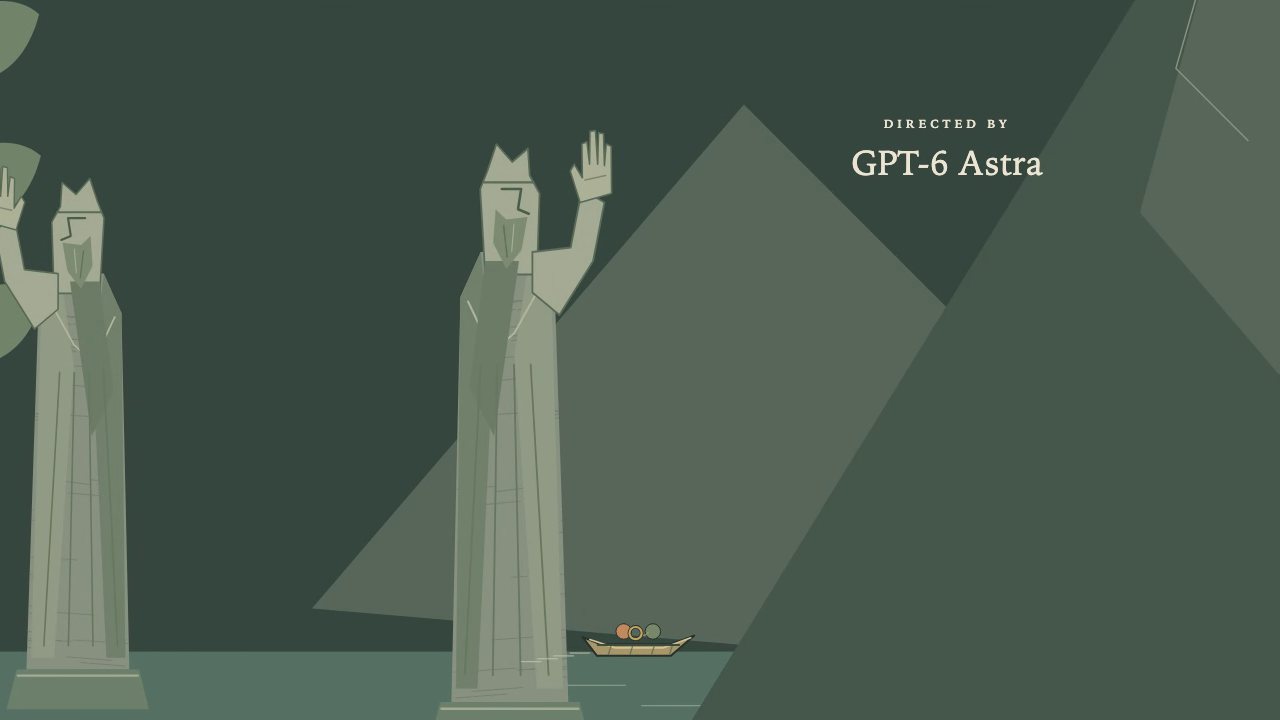
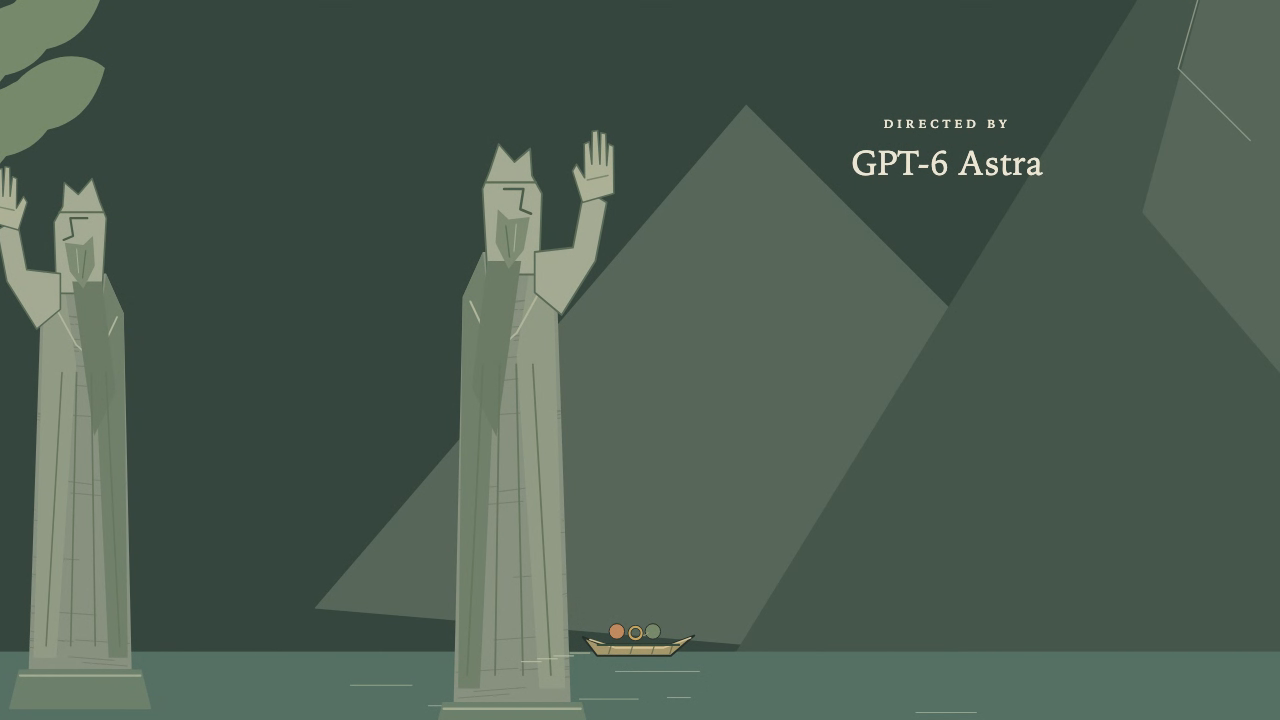
polish(burden): settle the river and clear the final handoffs

diff --git a/apps/rube/checks/burden.ts b/apps/rube/checks/burden.ts
@@ -12,12 +12,15 @@ export function checkBurden(perf: Performance, version: ShowVersion, check: Chec
     perf.soundtrack.youtube[0].id === 'vbKy6FuACKg' && perf.soundtrack.youtube[0].until === MUSIC_END)
   let continuous = true, stable = true, framed = true, separate = true, deterministic = true
   let worst = 0, worstAt = 0
+  let hoopGap = Infinity, hoopAt = 0
   const colours = new Map(Object.values(CAST).map(c => [c.id as number, c.color]))
   let previous = castAt(0)
   for (let frame = 1; frame <= DURATION * 120; frame++) {
-    const t = frame / 120, balls = castAt(t)
+    const t = frame / 120, balls = castAt(t), hoop = ringAt(t)
     stable &&= balls.length === (t < 282 ? 3 : 2) && new Set(balls.map(b => b.id)).size === balls.length
     for (const b of balls) {
+      const gap = Math.hypot(b.x - hoop[0], b.y - hoop[1])
+      if (gap < hoopGap) { hoopGap = gap; hoopAt = t }
       stable &&= colours.get(b.id) === b.color && b.scale === RADIUS / 0.13 && !b.ghost
       const a = previous.find(p => p.id === b.id)
       if (a && !(b.id === 2 && t > BEATS.break)) {
@@ -46,11 +49,9 @@ export function checkBurden(perf: Performance, version: ShowVersion, check: Chec
   check('Burden: the cast never pass through one another', separate)
   check('Burden: Frodo remains inside the composed and Zoom frames', framed)
   check('Burden: seeking backwards cannot alter a later frame', deterministic)
-  let chuteClear = true, gatesClear = true
-  for (let f = 0; f <= 8 * 120; f++) {
-    const q = ringAt(f / 120), s = samAt(f / 120)
-    chuteClear &&= Math.hypot(q[0] - s[0], q[1] - s[1]) > RADIUS + 0.223
-  }
+  check('Burden: the hoop clears the cast through pickup, temptation, release and landing',
+    hoopGap > RADIUS + 0.223, `minimum centre distance ${hoopGap.toFixed(4)} at ${hoopAt.toFixed(3)}s`)
+  let gatesClear = true
   // Swept clearance against the whole root, including its widest section.
   for (let i = 0; i < 3; i++) {
     const x = 11 + i * 5.2, y = roadY(x) + RADIUS - 3.35
@@ -63,7 +64,6 @@ export function checkBurden(perf: Performance, version: ShowVersion, check: Chec
       }
     }
   }
-  check('Burden: the opening hoop clears Sam before its pickup', chuteClear)
   check('Burden: raised roots clear both travellers and close behind them', gatesClear)
   let contact = true
   for (let t = 112; t < 140; t += 0.05) contact &&= Math.abs(frodoAt(t)[1] - liftAt(t)[1]) < 1e-8

diff --git a/apps/rube/src/shows/versions/bridge-of-khazad-dum/astra/motion.ts b/apps/rube/src/shows/versions/bridge-of-khazad-dum/astra/motion.ts
@@ -65,7 +65,9 @@ export const leafAt = (t: number): Pt => {
 }
 const shoreX = curve([[307, 149.5], [313, 152.7], [319, 155]])
 const boatX = curve([[319, 155], [326, 159.5], [330, 160.7], [339, 168], [357, 179], [383, 181]])
-export const boatAt = (t: number): Pt => [boatX(t), 10.7 + 0.026 * Math.sin((t - 319) * 1.2) * smooth(t, 319, 323)]
+// The launch and Sam's landing disturb one shared hull. Both impulses decay;
+// the long river hold has no perpetual decorative bobbing.
+export const boatAt = (t: number): Pt => [boatX(t), 10.7 + settle(t, 319, 0.045, 2.8, 1.8) + settle(t, 329.2, 0.09, 1.8, 2.8)]
 export const boatAngle = (t: number): number => 0.07 * smooth(t, 320, 324) - 0.07 * smooth(t, 329.2, 334) + settle(t, 329.2, -0.11, 3, 2.5)
 function seated(t: number, offset: number): Pt {
   const q = boatAt(t), r = rotate(offset, -0.06, boatAngle(t))
@@ -141,9 +143,11 @@ export function ringAt(t: number): Pt {
     return [p[0] + q[0], p[1] + q[1]] as Pt
   })()
   const temptation = smooth(t, 311, 315) * (1 - smooth(t, 317, 320))
+  const lifted = smooth(t, 311, 312.2) * (1 - smooth(t, 319, 320))
   // The aperture's hanging cord draws the hoop toward the empty seat; the
-  // traveller keeps moving until the tether slips free. The pull has a source.
-  return [mix(ground[0], 152.8, temptation * 0.82), mix(ground[1] + 0.045, 9.7, temptation * 0.82)]
+  // hoop lifts before crossing Frodo and stays above Sam until it slips free.
+  // The same scored pull, hold and release now have a clear physical path.
+  return [mix(ground[0], 152.8, temptation * 0.82), mix(ground[1] + 0.045, 9.7, lifted * 0.82)]
 }
 
 export function castAt(t: number): ShowBall[] {

diff --git a/apps/rube/src/shows/versions/bridge-of-khazad-dum/astra/drawing.ts b/apps/rube/src/shows/versions/bridge-of-khazad-dum/astra/drawing.ts
@@ -180,7 +180,7 @@ export const landscape = piece('burden-landscape', (g, t) => {
   // The river has no specular reflection: cut horizontal lines in a matte sheet.
   rect(g, 145, 11.2, 100, 50, mixHex('#8D9F93', '#566F65', smooth(t, 325, 353)))
   for (let i = 0; i < 85; i++) {
-    const x = 145 + hash(i, 70) * 60 - (t * 0.018 % 2), y = 11.6 + hash(i, 74) * 18
+    const x = 145 + hash(i, 70) * 60 - t * 0.018, y = 11.6 + hash(i, 74) * 18
     line(g, [[x, y], [x + 0.45 + hash(i, 80) * 2.2, y]], '#9DAA92', 0.025)
   }
 })

diff --git a/docs/shows/burden/REVIEW.md b/docs/shows/burden/REVIEW.md
@@ -1,6 +1,6 @@
 # Burden — Astra review record
 
-Five improvement rounds, with one push per round. One draft PR: #219.
+Six improvement rounds, with one push per round. Rounds 4–6 are the continuation session. One draft PR: #219.
 `npm run build` passed before each push: lint, typecheck, the complete test
 suite, and the Vite production build.
 
@@ -9,25 +9,29 @@ suite, and the Vite production build.
 | 1 | Companion jumps at carrier handoffs; stair hinge drift; balls overlapping at the pin | Shared support geometry, fixed hinge and Gandalf's passing perch; curved landscape silhouettes | All 11,490 frames; 20 consecutive frames at each of the stair, bridge and skiff handoffs |
 | 2 | Skiff above water; hoop cutting into slopes; misleading stair axle; busy chasm; camera leaving the fall early | Waterline and hoop contacts corrected; bucket/pawl made explicit; false axle and background columns removed; longer hold | All 11,490 frames and the same three consecutive-frame sheets |
 | 3 | Credits on a statue's hand; default credit halo; small pin handoff | Clear-sky matte cards in DOM and video; closer handoff then wider reveal; refined carved statues; ring pulls toward the seat's cord | All 11,490 frames; Zoom, Overview, portrait and real video export |
+| 4 | Hoop crosses Sam; roots swing open after the pair pass; duplicate road props | Clear opening and travelling space; roots close behind the pair; removed two trees and three disconnected weights | Whole film at 1× before and after; 11,490-frame scan; gate and hoop checks |
+| 5 | Dense grove overwhelms the descent; mountain wedge closes the river | Three high crowns instead of six dense trees; distant ridges behind water | Whole film at 1×; 11,490-frame scan; Zoom and Overview |
+| 6 | Hoop crosses cast during temptation; river markings reset; hull bobs indefinitely | Clear lifted release; continuous river drift; damped launch and landing | Whole film at 1×; 11,490-frame scan; 120 fps hoop clearance; portrait and video proof |
 
 Every full browser run reported zero page errors and rejected any attempt
-to draw type in a live frame. Returning to frame 264 after scrubbing in
+to draw type in a live frame. Returning to 264 seconds after scrubbing in
 both directions produced identical canvas pixels in all rounds. The
 headless show check additionally samples 45,960 instants at 120 fps for
 continuous handoffs, cast identity, ball separation and camera framing.
 
-The final media pass used the actual shared Save video implementation to
+The round-3 media pass used the actual shared Save video implementation to
 record show seconds 363.2–369.4 at 2×. The resulting VP9 WebM has a 1280 × 720
-video stream and no audio stream. Its decoded frame is `credits.png`.
+video stream and no audio stream. The decoded proof, `credits.png`, was
+refreshed from the round-6 export.
 Live DOM computed `text-shadow: none` and `filter: none`; instrumentation of
 the video credit painter found no nonzero shadow blur or focus filter.
 
-The official YouTube embed `vbKy6FuACKg` loaded with `music: ready`,
+In round 3, the official YouTube embed `vbKy6FuACKg` loaded with `music: ready`,
 `source: youtube`, `fellBack: false`. Observed clock rates over separate
 1.1-second windows were 0.986× at 1× and 1.956× at 2×.
 
 Reproduce with Vite on port 8863 and
-`node scripts/shows/review-burden.mjs --round 3 --port 8863 --scan --export`.
+`node scripts/shows/review-burden.mjs --round 6 --port 8863 --watch --scan --export`.
 Full contact sheets, raw reports and the silent video remain in ignored
 `out/burden/`; the selected PNGs here are for review and PR screenshots.
 
@@ -74,3 +78,31 @@ Review: complete 0–383-second wall-clock 1× confirmation, followed by the
 The final scan reported zero page errors and identical reverse-scrub pixels.
 Zoom, Overview and matte credit parity passed. This full 1× confirmation is
 also the review used to choose round 6's remaining motion faults.
+
+## Continuation · round 6
+
+The preceding full 1× review and close scrubs isolated the last motion faults.
+The tempted hoop now lifts before crossing Frodo and stays up until it clears
+Sam. Its pull, hold and release retain the same scored bounds. The 120 fps
+sweep now checks the hoop against every cast member for the entire film;
+minimum centre separation is 0.4576 cells, exceeding the combined outlined
+radii. The river's modulo reset is removed, so its engravings drift continuously.
+
+The hull's launch and Sam's landing now produce small decaying displacements
+shared by the skiff, both passengers, hoop and gunwale. Removed the perpetual
+sine bob: the final wide glide settles. All camera keys, cue anchors, duration
+and credit times are unchanged from the start of this session.
+
+Lint, typecheck, full tests and production build passed. A separate 390 × 844
+live-page pass checked nine moments from Bag End through the director card,
+with zero page errors and no pre-credit words. Artifacts:
+`out/burden/round-6/`, `round-6-sketch/` and `round-6-phone/`.
+
+The complete 0–383-second wall-clock 1× confirmation and all 11,490 scan
+frames passed with zero page errors. Reviewed all ten reels and seven
+consecutive-frame sheets, including the release, landing and former river
+reset. Reverse-scrub pixels, Zoom, Overview and matte DOM/video checks passed.
+The actual Save video path produced a 1280 × 720 VP9 credit excerpt with no
+audio stream; its decoded director card is `credits.png`. The official
+YouTube embed was ready without fallback, with measured clock rates of
+0.990× and 1.980× at 1× and 2×. Refreshed selected images and added `release.png`.

diff --git a/apps/rube/src/shows/versions/bridge-of-khazad-dum/BURDEN.md b/apps/rube/src/shows/versions/bridge-of-khazad-dum/BURDEN.md
@@ -18,7 +18,7 @@ empty council seats are architecture, not additional cast members.
 | --- | --- | --- |
 | 0:00–0:24 | Bag End; accepting the ring | The ring rolls out of the round door's pocket and withdraws a latch. Frodo and Sam leave together. |
 | 0:24–1:04 | The road and the Black Riders | Three suspended root shutters close behind the travellers. The path is progressively shut off from home. |
-| 1:04–1:39 | The Council of Elrond | Nine empty seats surround a balance. The two small weights join Gandalf; their shared load tips the east end down. |
+| 1:04–1:39 | The Council of Elrond | Nine empty seats surround a balance. The two small weights join Gandalf; their shared load brings the balance into line with the mountain road. |
 | 1:39–2:38 | The mountain pass; entering Moria | A descending stone counterweight raises the fellowship's cradle. A slab closes the high pass, sending them down to the west door. |
 | 2:38–3:54 | The long dark of Moria | A bucket falls, pulls a clutch, and rocks a monumental stair onto the far landing. The three cross its current surface together. |
 | 3:54–4:40 | The bridge; Gandalf's sacrifice | Gandalf steps onto the pin's small perch to let the others through. The iron mass tensions two chains. His weight withdraws the pin; three slabs and Gandalf fall, leaving a lasting gap. |
@@ -135,3 +135,21 @@ counterweight and survivors now move through a clear field. One bough anchors
 the pulley. Moved the distant ridges behind the waterline so the final river
 stays open ahead of the skiff. No camera or motion timing changed. Repeated
 the complete 1× review, 30 fps frame scan and full build gate.
+
+### Round 6
+
+The full 1× review and close scrubs found the hoop crossing the cast during
+its temptation and release. It now lifts clear first, then lowers after
+passing Sam; the same scored bounds remain. Extended the 120 fps clearance
+check across the whole film. Removed the river engraving's periodic reset.
+The skiff now takes the launch and Sam's landing with small decaying impulses
+shared by its passengers and hoop, replacing the perpetual sine bob.
+
+Repeated the entire film at 1×, the complete 30 fps scan, seven consecutive
+frame sheets, Zoom, Overview, and nine live portrait compositions. No camera
+keys, score anchors or credit times changed in rounds 4–6.
+
+The final browser review had zero page errors and exact reverse-scrub pixels.
+A fresh 720p Save video excerpt confirms matte credits and no audio stream.
+The official YouTube player loaded without fallback; its clock measured
+0.990× and 1.980× at the two speeds. Lint, typecheck, full tests and build passed.
